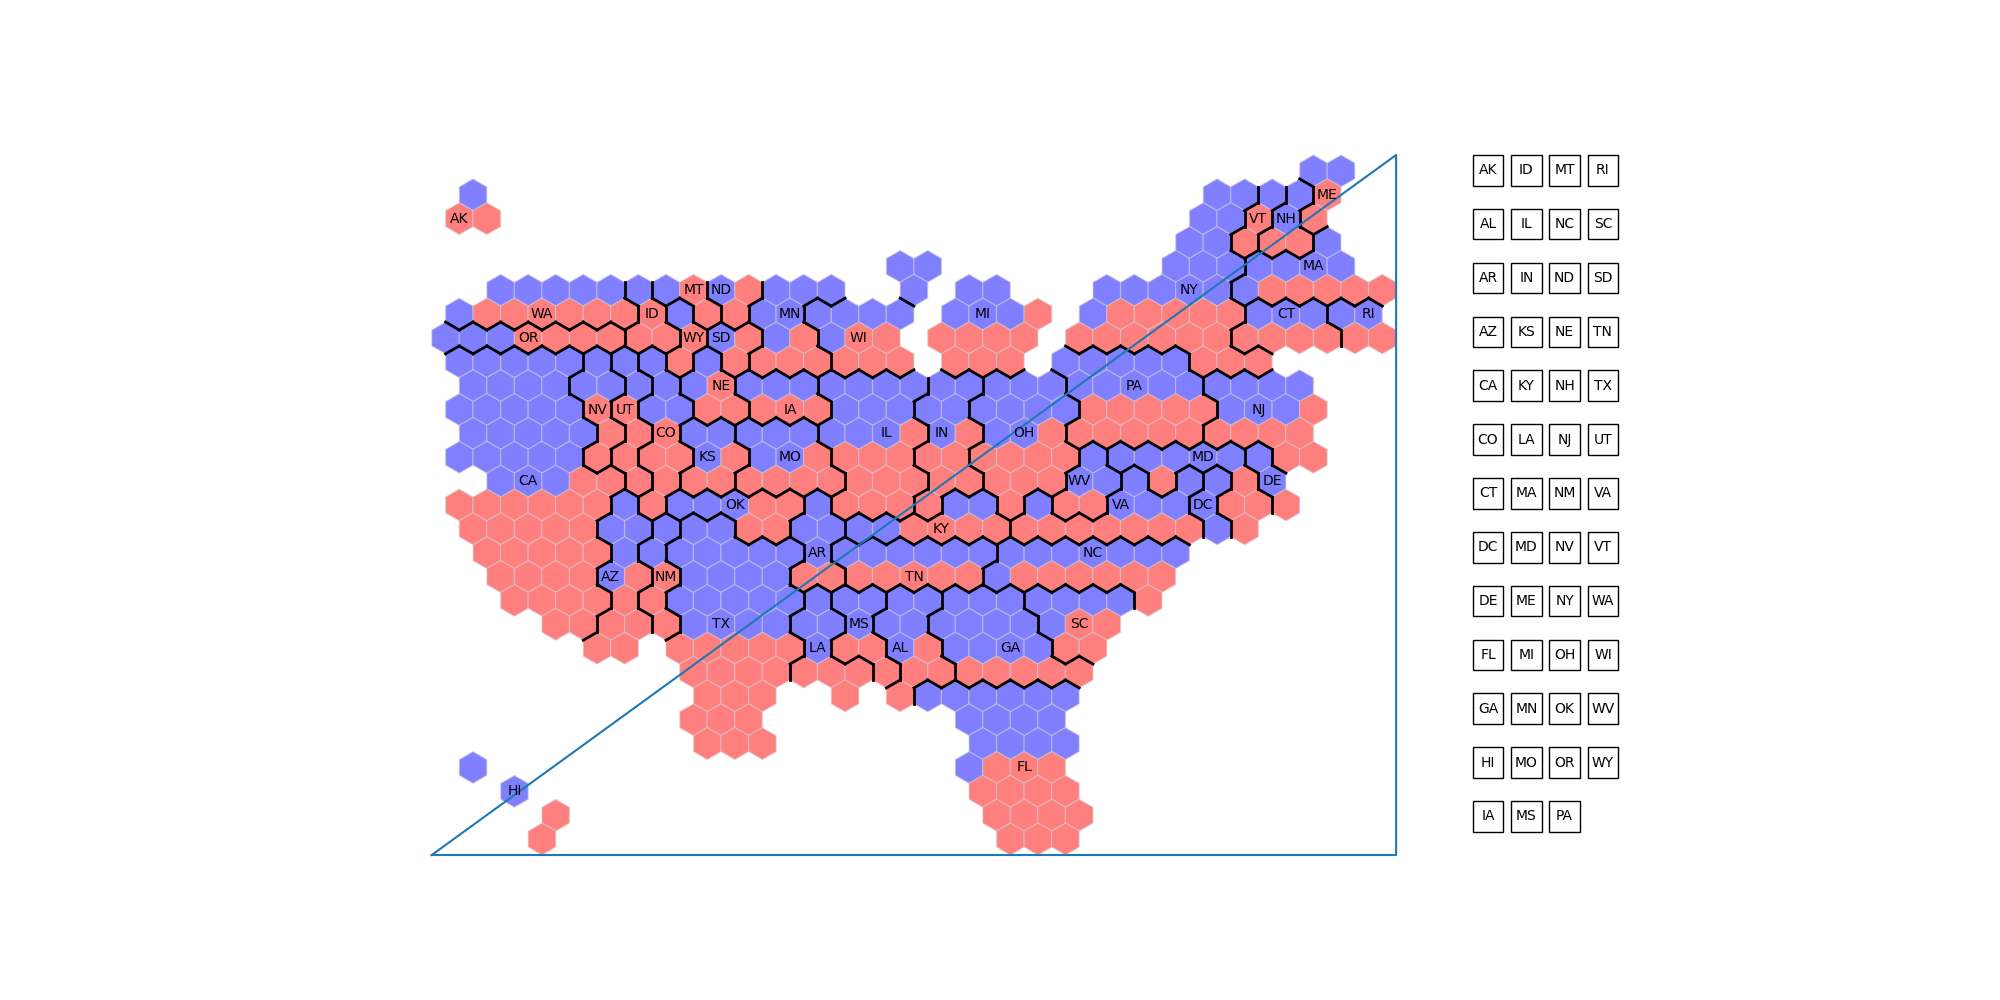
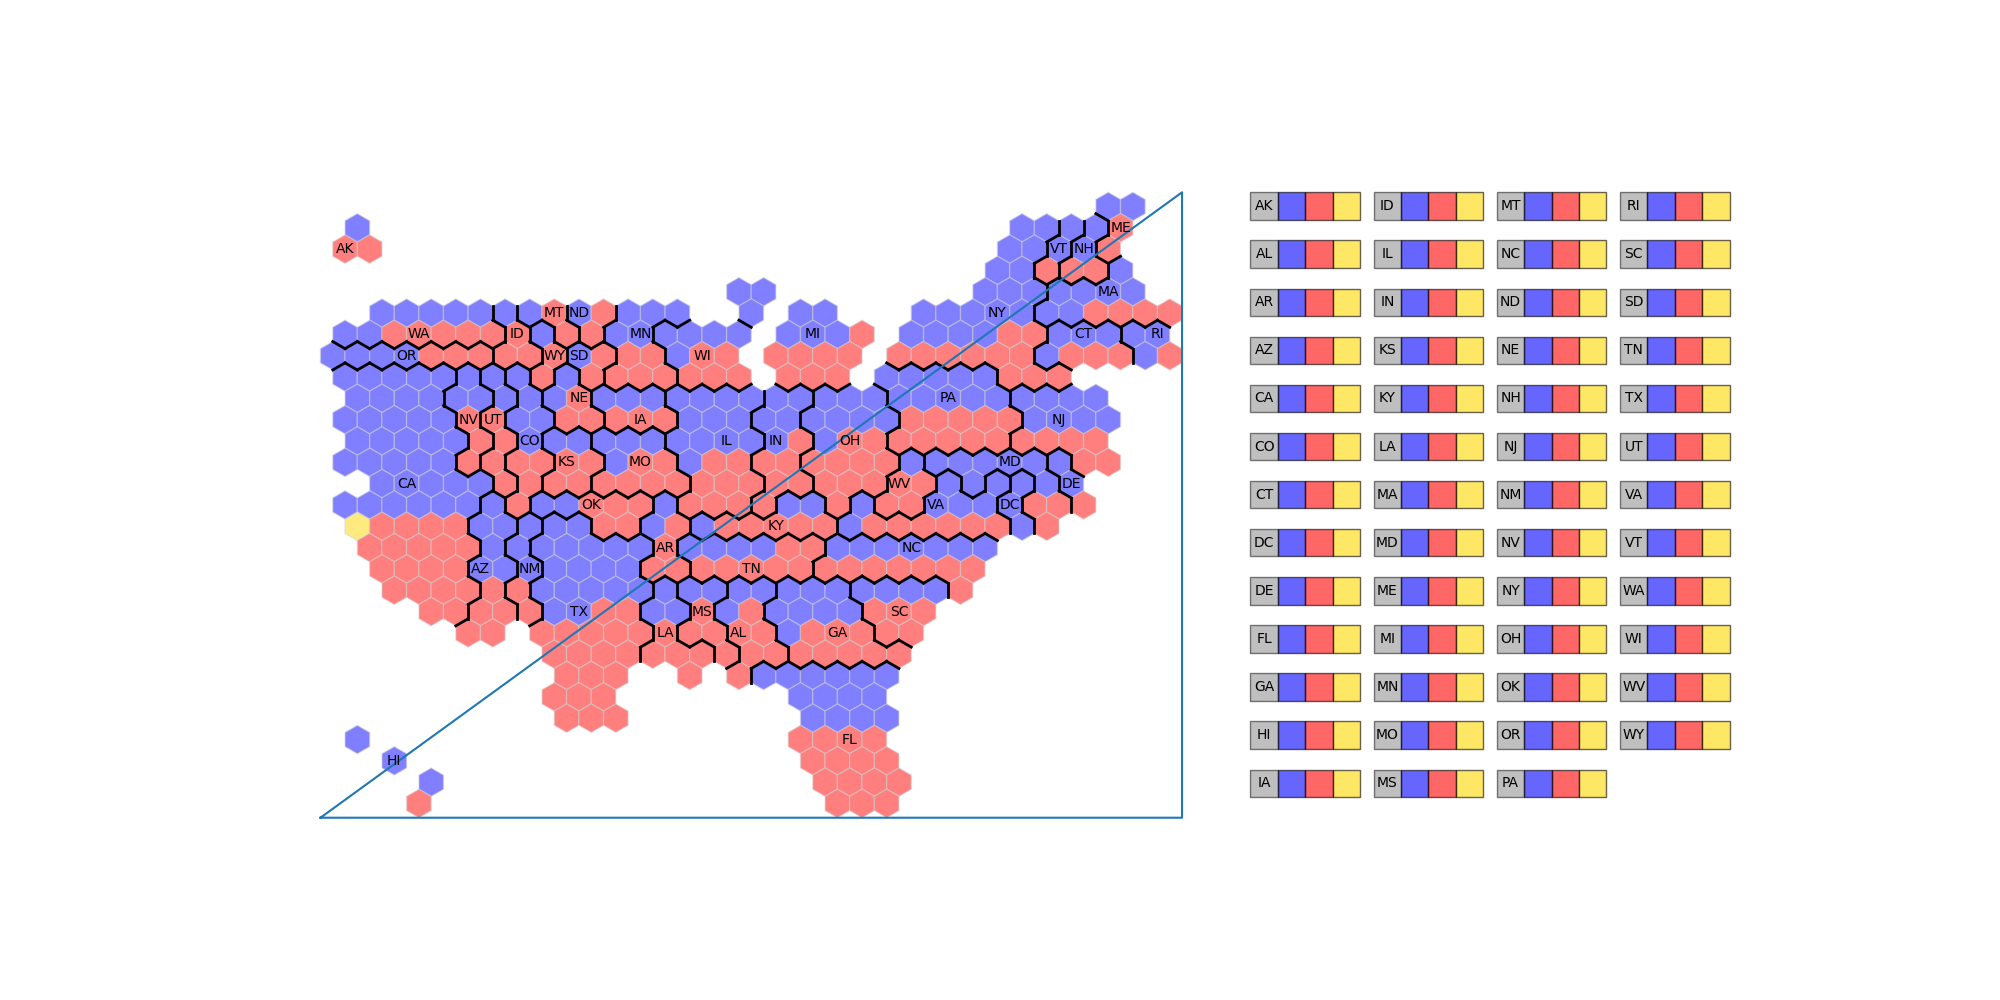
ENH: draw boxes for state by state numbers

diff --git a/src/proportional_ec/draw.py b/src/proportional_ec/draw.py
@@ -1,7 +1,7 @@
-from fractions import Fraction
 import random
 from collections.abc import Sequence
 from dataclasses import dataclass
+from fractions import Fraction
 from math import ceil
 from pathlib import Path
 
@@ -162,14 +162,18 @@ def draw_state_break_down(
     fig: plt.Figure,
     ax: plt.Axes,
     extremities: Extremities,
+    state_seats: dict[StatePo, dict[Candidate, Seats]],
+    candidate_party: dict[Candidate, Party],
+    candidate_order: Sequence[Candidate],
 ) -> None:
     ax.plot(
         [extremities.left, extremities.right, extremities.right, extremities.left],
         [extremities.bottom, extremities.top, extremities.bottom, extremities.bottom],
     )
 
-    horizontal_offset = 50
+    state_box_width = 40
     state_box_height = 40
+    horizontal_offset = state_box_width * (len(candidate_order) + 1.5)
 
     state_spaces_per_column = ceil(Fraction(len(STATE_PO) / BREAK_DOWN_COLUMNS))
 
@@ -185,14 +189,16 @@ def draw_state_break_down(
             )
             rect = plt.Rectangle(
                 state_name_position,
+                state_box_width,
                 state_box_height,
-                state_box_height,
-                facecolor="white",
+                facecolor="grey",
                 edgecolor="black",
+                alpha=0.5,
             )
             ax.add_patch(rect)
+
             t = ax.text(
-                state_name_position[0] + state_box_height / 2,
+                state_name_position[0] + state_box_width / 2,
                 extremities.top - row * vertical_offset - state_box_height / 2,
                 state_pos[state_index],
                 horizontalalignment="center",
@@ -201,6 +207,21 @@ def draw_state_break_down(
                 fontfamily="sans-serif",
                 fontweight="roman",
             )
+
+            for i, candidate in enumerate(candidate_order):
+                rect = plt.Rectangle(
+                    (
+                        state_name_position[0] + (i + 1) * state_box_width,
+                        state_name_position[1],
+                    ),
+                    state_box_width,
+                    state_box_height,
+                    facecolor=PARTY_COLOUR[candidate_party[candidate]],
+                    edgecolor="black",
+                    alpha=0.6,
+                )
+                ax.add_patch(rect)
+
             state_index += 1
             if state_index >= len(state_pos):
                 break
@@ -256,7 +277,18 @@ def draw_ec_map(
     draw_borders(ax, border_lines)
     draw_state_names(ax, state_centroids)
 
-    draw_state_break_down(fig, ax, get_extremities(state_polygons))
+    draw_state_break_down(
+        fig,
+        ax,
+        get_extremities(state_polygons),
+        state_seats,
+        candidate_party,
+        sorted(
+            overall_results,
+            key=lambda x: overall_results[x],
+            reverse=True,
+        ),
+    )
 
     ax.autoscale_view()
     ax.set_aspect("equal")
